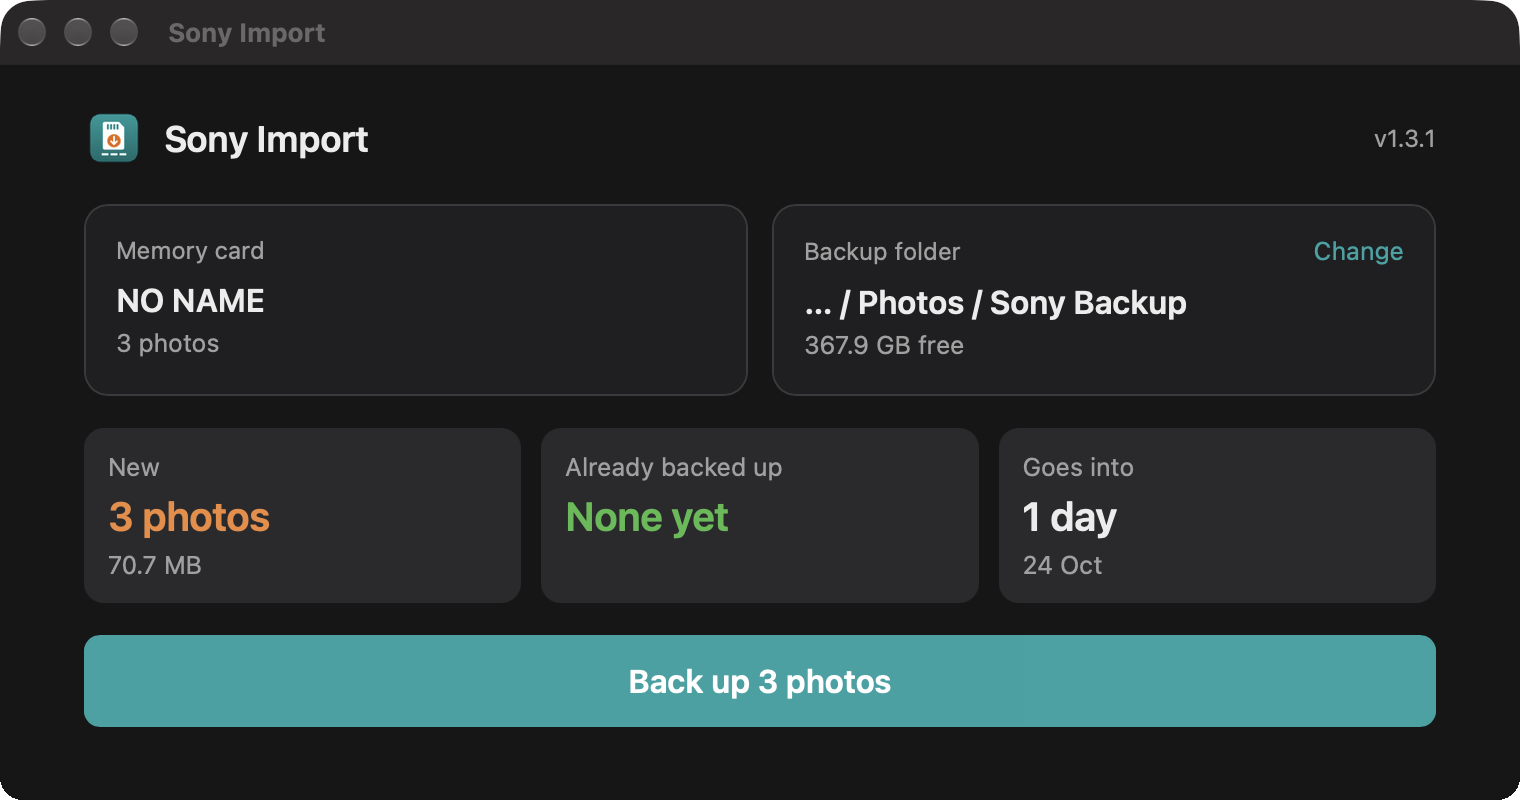
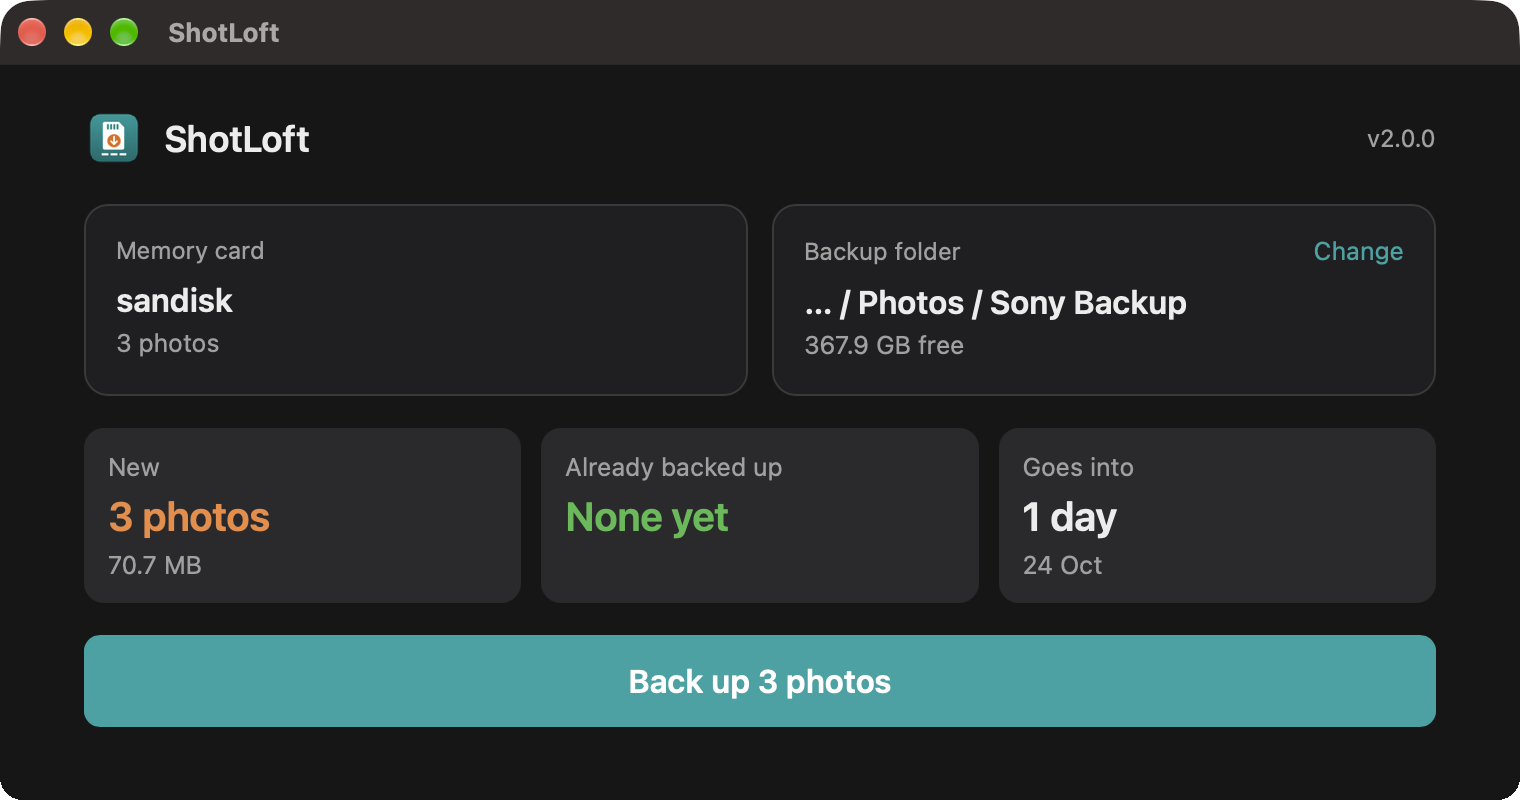
Docs: ShotLoft name everywhere, former-name notes, real ShotLoft screenshot

diff --git a/DEVELOPMENT.md b/DEVELOPMENT.md
@@ -1,23 +1,23 @@
-# Developing Sony Import
+# Developing ShotLoft
 
-[![Build](https://img.shields.io/github/actions/workflow/status/imsoumya18/sony-import/build.yml?branch=main&label=build)](https://github.com/imsoumya18/sony-import/actions/workflows/build.yml)
+[![Build](https://img.shields.io/github/actions/workflow/status/imsoumya18/shotloft/build.yml?branch=main&label=build)](https://github.com/imsoumya18/shotloft/actions/workflows/build.yml)
 [![Python 3.8+](https://img.shields.io/badge/python-3.8%2B-008787)](https://www.python.org/)
 
-Sony Import is a desktop app made of three parts. User-facing docs are in the [README](README.md).
+ShotLoft is a desktop app made of three parts. User-facing docs are in the [README](README.md).
 
 | Part | What it is |
 |---|---|
-| [`sony-import-app.py`](sony-import-app.py) | The app: opens the window and serves the page and its actions |
+| [`shotloft.py`](shotloft.py) | The app: opens the window and serves the page and its actions |
 | [`ui/index.html`](ui/index.html) | The window's contents: one page of HTML, CSS and JavaScript |
-| [`sony-import.py`](sony-import.py) | The engine: card detection, matching, copying, repairs, verify, eject. Standard library only, Python 3.8+ |
+| [`engine.py`](engine.py) | The engine: card detection, matching, copying, repairs, verify, eject. Standard library only, Python 3.8+ |
 
 ## Run from source
 
 ```bash
 pip install pywebview                 # once, for the native window (Mac and Windows)
-python3 sony-import-app.py            # open the app
-python3 sony-import-app.py --browser  # open it in the browser instead
-python3 sony-import-app.py --serve    # no window; print the URL and token (tests)
+python3 shotloft.py            # open the app
+python3 shotloft.py --browser  # open it in the browser instead
+python3 shotloft.py --serve    # no window; print the URL and token (tests)
 ```
 
 ## How the app works
@@ -35,7 +35,7 @@ python3 sony-import-app.py --serve    # no window; print the URL and token (test
   and quits about 45 seconds after the page is closed.
 - **Folder picker.** A native dialog everywhere: pywebview's in the window, otherwise AppleScript,
   PowerShell, `zenity` or `kdialog`. You can also paste a path.
-- **Engine loading.** The app loads `sony-import.py` at start-up. Because of that, the app imports
+- **Engine loading.** The app loads `engine.py` at start-up. Because of that, the app imports
   the engine's standard-library modules itself, so PyInstaller packs them into the built app.
 - **macOS builds** add `NSAppTransportSecurity → NSAllowsLocalNetworking` to `Info.plist` and are
   re-signed ad hoc. Without it, the window can't load the app's own `http://127.0.0.1` page; the
@@ -95,8 +95,8 @@ python3 sony-import-app.py --serve    # no window; print the URL and token (test
   release, with a 3-second timeout.
   - It falls back to `curl` if Python can't verify HTTPS, and says nothing when offline.
   - If the release is newer than `__version__`, the app shows a banner with the update line.
-  - Turn it off with `SONY_IMPORT_NO_UPDATE_CHECK=1`.
-- **Saved settings.** The backup folder is remembered in `~/.sony-import.json`.
+  - Turn it off with `SHOTLOFT_NO_UPDATE_CHECK=1`.
+- **Saved settings.** The backup folder is remembered in `~/.shotloft.json`.
 
 ### Engine commands (internal)
 
@@ -104,18 +104,18 @@ The engine also has commands with JSON output. They're used by the tests and by 
 a Claude skill that runs backups), and aren't part of the user-facing app:
 
 ```bash
-python3 sony-import.py detect --dest "$DEST" --json           # cards, backup drive
-python3 sony-import.py plan   --dest "$DEST" --json           # what would be copied
-python3 sony-import.py import --dest "$DEST" --report r.json  # copy, write a JSON report
-python3 sony-import.py verify --dest "$DEST" --json           # byte-for-byte check
-python3 sony-import.py eject  [--card PATH]                   # safely eject the card(s)
-python3 sony-import.py check-update --json                    # is a newer release out?
-python3 sony-import.py trash-jpgs --report r.json             # move extra JPGs to the Trash
+python3 engine.py detect --dest "$DEST" --json           # cards, backup drive
+python3 engine.py plan   --dest "$DEST" --json           # what would be copied
+python3 engine.py import --dest "$DEST" --report r.json  # copy, write a JSON report
+python3 engine.py verify --dest "$DEST" --json           # byte-for-byte check
+python3 engine.py eject  [--card PATH]                   # safely eject the card(s)
+python3 engine.py check-update --json                    # is a newer release out?
+python3 engine.py trash-jpgs --report r.json             # move extra JPGs to the Trash
 ```
 
 - **Cards:** `--card PATH` (repeatable) picks specific cards. Otherwise every connected Sony card
   is used.
-- **Backup folder:** `--dest` can come from the `SONY_IMPORT_DEST` environment variable instead.
+- **Backup folder:** `--dest` can come from the `SHOTLOFT_DEST` environment variable instead.
 - **Exit codes:**
 
   | Code | Meaning |
@@ -145,19 +145,35 @@ python3 sony-import.py trash-jpgs --report r.json             # move extra JPGs 
   - requests with no token, a wrong token, or a foreign Host header are refused
 
 ```bash
-python3 tests/smoke_test.py python3 sony-import.py      # the engine
-python3 tests/app_test.py python3 sony-import-app.py    # the app, from source
-python3 tests/app_test.py "dist/Sony Import.app/Contents/MacOS/Sony Import"   # a built Mac app
+python3 tests/smoke_test.py python3 engine.py      # the engine
+python3 tests/app_test.py python3 shotloft.py    # the app, from source
+python3 tests/app_test.py "dist/ShotLoft.app/Contents/MacOS/ShotLoft"   # a built Mac app
 ```
 
 Test hooks:
 
 | Variable | What it does |
 |---|---|
-| `SONY_IMPORT_TEST_CARDS` | Treats these folders as plugged-in cards |
-| `SONY_IMPORT_TEST_FREE_BYTES` | Fakes the free space on the backup drive |
-| `SONY_IMPORT_UPDATE_URL` | Uses this URL for the update check |
-| `SONY_IMPORT_URL_FILE` | Writes the `--serve` URL to a file, for windowed builds without a console |
+| `SHOTLOFT_TEST_CARDS` | Treats these folders as plugged-in cards |
+| `SHOTLOFT_TEST_FREE_BYTES` | Fakes the free space on the backup drive |
+| `SHOTLOFT_UPDATE_URL` | Uses this URL for the update check |
+| `SHOTLOFT_URL_FILE` | Writes the `--serve` URL to a file, for windowed builds without a console |
+
+## Former name (Sony Import)
+
+ShotLoft was called **Sony Import** up to v2.0.0. The old name appears in the code in exactly three
+places, all for moving existing users over:
+- **Settings** (`engine.py`): if `~/.shotloft.json` doesn't exist yet, `~/.sony-import.json` is
+  read once, so the saved backup folder carries over.
+- **Installers:**
+  - Until the first ShotLoft release exists, they fall back to the last `sony-import-*` release
+    files.
+  - After installing ShotLoft, they remove the old Sony Import app, but only if it's ours:
+    - Mac: checked by its bundle ID `io.github.imsoumya18.sony-import`.
+    - Windows: its own `Programs\Sony Import` folder and Start-menu entry.
+    - Linux: its menu entry.
+- GitHub redirects the old repo address (`imsoumya18/sony-import`) and old install lines to
+  `imsoumya18/shotloft`.
 
 ## The one-line installers
 
@@ -169,29 +185,29 @@ it.
 ### macOS and Linux: [`install.sh`](install.sh)
 
 It downloads the latest release with `curl`:
-- **macOS:** unpacks `Sony Import.app` with `ditto`, keeping its signature. It installs into
+- **macOS:** unpacks `ShotLoft.app` with `ditto`, keeping its signature. It installs into
   `/Applications`, or into `~/Applications` if that isn't writable, replacing an older version. It
   refuses while the app is open.
-- **Linux:** installs `~/.local/bin/sony-import` (it opens in the browser) and an app-menu entry.
+- **Linux:** installs `~/.local/bin/shotloft` (it opens in the browser) and an app-menu entry.
 
 | Variable | Default |
 |---|---|
-| `SONY_IMPORT_RELEASES` | `https://github.com/imsoumya18/sony-import/releases/latest/download` |
-| `SONY_IMPORT_RAW` | `https://raw.githubusercontent.com/imsoumya18/sony-import/main` (Linux icon) |
-| `SONY_IMPORT_APPS_DIR` | `/Applications` (macOS) |
-| `SONY_IMPORT_BIN_DIR` | `~/.local/bin` (Linux) |
-| `SONY_IMPORT_NO_REVEAL` | If unset, the app is shown in Finder afterwards |
+| `SHOTLOFT_RELEASES` | `https://github.com/imsoumya18/shotloft/releases/latest/download` |
+| `SHOTLOFT_RAW` | `https://raw.githubusercontent.com/imsoumya18/shotloft/main` (Linux icon) |
+| `SHOTLOFT_APPS_DIR` | `/Applications` (macOS) |
+| `SHOTLOFT_BIN_DIR` | `~/.local/bin` (Linux) |
+| `SHOTLOFT_NO_REVEAL` | If unset, the app is shown in Finder afterwards |
 
 ### Windows: [`install.ps1`](install.ps1)
 
 It runs as `irm …/install.ps1 | iex`, in Windows PowerShell 5.1 or later:
-- It downloads `Sony Import.exe` into `%LOCALAPPDATA%\Programs\Sony Import`, which needs no admin
-  rights, and adds a **Sony Import** Start-menu shortcut.
+- It downloads `ShotLoft.exe` into `%LOCALAPPDATA%\Programs\ShotLoft`, which needs no admin
+  rights, and adds a **ShotLoft** Start-menu shortcut.
 - `Unblock-File` makes sure the app carries no "from the internet" mark.
 - It runs inside `& { … }` and never calls `exit`, so a failure can't close the user's PowerShell
   window.
 
-Overrides: `SONY_IMPORT_RELEASES`, `SONY_IMPORT_INSTALL_DIR` and `SONY_IMPORT_START_MENU`.
+Overrides: `SHOTLOFT_RELEASES`, `SHOTLOFT_INSTALL_DIR` and `SHOTLOFT_START_MENU`.
 
 The icons are [`docs/icon.png`](docs/icon.png) (1024 px), [`docs/AppIcon.icns`](docs/AppIcon.icns)
 and [`docs/icon.ico`](docs/icon.ico), drawn in the app's teal and orange.
@@ -210,7 +226,7 @@ On every push, [GitHub Actions](.github/workflows/build.yml) runs these jobs:
 To publish a new version:
 1. Add a `## [X.Y.Z] - date` section to [CHANGELOG.md](CHANGELOG.md), written for users. Usually
    you just rename `## [Unreleased]`.
-2. Bump `__version__` in `sony-import.py`. The app shows it, and the update notice uses it.
+2. Bump `__version__` in `engine.py`. The app shows it, and the update notice uses it.
 3. Commit, then tag and push:
 
    ```bash

diff --git a/README.md b/README.md
@@ -1,16 +1,18 @@
-# Sony Import
+# ShotLoft
 
-[![Latest version](https://img.shields.io/github/v/release/imsoumya18/sony-import?label=version&color=008787)](https://github.com/imsoumya18/sony-import/releases/latest)
-[![Build](https://img.shields.io/github/actions/workflow/status/imsoumya18/sony-import/build.yml?branch=main&label=build)](https://github.com/imsoumya18/sony-import/actions/workflows/build.yml)
-[![Downloads](https://img.shields.io/github/downloads/imsoumya18/sony-import/total)](https://github.com/imsoumya18/sony-import/releases)
+[![Latest version](https://img.shields.io/github/v/release/imsoumya18/shotloft?label=version&color=008787)](https://github.com/imsoumya18/shotloft/releases/latest)
+[![Build](https://img.shields.io/github/actions/workflow/status/imsoumya18/shotloft/build.yml?branch=main&label=build)](https://github.com/imsoumya18/shotloft/actions/workflows/build.yml)
+[![Downloads](https://img.shields.io/github/downloads/imsoumya18/shotloft/total)](https://github.com/imsoumya18/shotloft/releases)
 [![Platforms](https://img.shields.io/badge/platform-Windows%20%7C%20macOS%20%7C%20Linux-008787)](#install)
 [![Setup](https://img.shields.io/badge/setup-one%20line-008787)](#install)
-[![License: MIT](https://img.shields.io/github/license/imsoumya18/sony-import?color=008787)](LICENSE)
+[![License: MIT](https://img.shields.io/github/license/imsoumya18/shotloft?color=008787)](LICENSE)
 
 A simple app that backs up the photos and videos from your Sony camera's memory card, neatly
 sorted into **Year → Month → Day** folders. Open it any time: it only copies what's new.
 
-<p align="center"><img src="docs/screenshot.png" alt="The Sony Import app showing a memory card, the backup folder, and what will be backed up" width="720"></p>
+<sub>ShotLoft was called *Sony Import* up to v2.0.0. Already using it? Run the install line below once to switch.</sub>
+
+<p align="center"><img src="docs/screenshot.png" alt="The ShotLoft app showing a memory card, the backup folder, and what will be backed up" width="720"></p>
 
 ## Install
 
@@ -20,15 +22,15 @@ sorted into **Year → Month → Day** folders. Open it any time: it only copies
 2. Paste this line and press <kbd>Enter</kbd>:
 
    ```bash
-   curl -fsSL https://raw.githubusercontent.com/imsoumya18/sony-import/main/install.sh | bash
+   curl -fsSL https://raw.githubusercontent.com/imsoumya18/shotloft/main/install.sh | bash
    ```
 
-3. **Sony Import** now appears in your Applications folder and Launchpad. Open it whenever you
+3. **ShotLoft** now appears in your Applications folder and Launchpad. Open it whenever you
    want to back up a card.
 
 It picks the right version for your computer (Mac with Apple or Intel chip, or Linux) by itself.
 To update, run the same line again; the app tells you when there's a new version. On Linux,
-Sony Import appears in your app menu and opens in your web browser.
+ShotLoft appears in your app menu and opens in your web browser.
 
 ### Windows: one line, no security warnings
 
@@ -36,10 +38,10 @@ Sony Import appears in your app menu and opens in your web browser.
 2. Paste this line and press <kbd>Enter</kbd>:
 
    ```powershell
-   irm https://raw.githubusercontent.com/imsoumya18/sony-import/main/install.ps1 | iex
+   irm https://raw.githubusercontent.com/imsoumya18/shotloft/main/install.ps1 | iex
    ```
 
-3. **Sony Import** is now in your Start menu. Search for it whenever you want to back up a card.
+3. **ShotLoft** is now in your Start menu. Search for it whenever you want to back up a card.
 
 To update, run the same line again. No admin rights needed.
 
@@ -48,12 +50,12 @@ To update, run the same line again. No admin rights needed.
 
 | Your computer | Download |
 |---|---|
-| Windows | [sony-import-windows.exe](https://github.com/imsoumya18/sony-import/releases/latest/download/sony-import-windows.exe) |
-| Mac with Apple chip (M1, M2, M3…) | [sony-import-macos-apple-silicon.zip](https://github.com/imsoumya18/sony-import/releases/latest/download/sony-import-macos-apple-silicon.zip) |
-| Mac with Intel chip | [sony-import-macos-intel.zip](https://github.com/imsoumya18/sony-import/releases/latest/download/sony-import-macos-intel.zip) |
-| Linux (64-bit) | [sony-import-linux.zip](https://github.com/imsoumya18/sony-import/releases/latest/download/sony-import-linux.zip) |
+| Windows | [shotloft-windows.exe](https://github.com/imsoumya18/shotloft/releases/latest/download/shotloft-windows.exe) |
+| Mac with Apple chip (M1, M2, M3…) | [shotloft-macos-apple-silicon.zip](https://github.com/imsoumya18/shotloft/releases/latest/download/shotloft-macos-apple-silicon.zip) |
+| Mac with Intel chip | [shotloft-macos-intel.zip](https://github.com/imsoumya18/shotloft/releases/latest/download/shotloft-macos-intel.zip) |
+| Linux (64-bit) | [shotloft-linux.zip](https://github.com/imsoumya18/shotloft/releases/latest/download/shotloft-linux.zip) |
 
-- **Mac:** unzip it, drag **Sony Import** into Applications, and open it. Because it was
+- **Mac:** unzip it, drag **ShotLoft** into Applications, and open it. Because it was
   downloaded in a browser, macOS blocks it the first time:
   1. Click **Done**.
   2. Go to **System Settings → Privacy & Security**.
@@ -62,13 +64,13 @@ To update, run the same line again. No admin rights needed.
   The Terminal line above avoids this, which is why it's the recommended way.
 - **Windows:** double-click it. On "Windows protected your PC", click **More info** → **Run anyway**.
   The PowerShell line above avoids this.
-- **Linux:** unzip it and run `sony-import`. It opens in your web browser.
+- **Linux:** unzip it and run `shotloft`. It opens in your web browser.
 </details>
 
 ## How to use it
 
 1. Put the memory card in your computer, and plug in the drive you back up to.
-2. Open **Sony Import**. It finds the card by itself.
+2. Open **ShotLoft**. It finds the card by itself.
 3. The first time, click **Choose backup folder** and pick any folder on any drive. It remembers
    the folder for next time.
 4. It shows what's new and what's already backed up. Click **Back up** and watch the progress bar.
@@ -126,13 +128,13 @@ Camera Backup/                ← the folder you chose
 <details>
 <summary>Uninstall</summary>
 
-- **Mac:** drag **Sony Import** from Applications to the Trash.
-- **Windows:** delete the folder `%LOCALAPPDATA%\Programs\Sony Import`, and the **Sony Import**
+- **Mac:** drag **ShotLoft** from Applications to the Trash.
+- **Windows:** delete the folder `%LOCALAPPDATA%\Programs\ShotLoft`, and the **ShotLoft**
   shortcut in the Start menu (right-click it → Open file location).
-- **Linux:** delete `~/.local/bin/sony-import` and `~/.local/share/applications/sony-import.desktop`.
+- **Linux:** delete `~/.local/bin/shotloft` and `~/.local/share/applications/shotloft.desktop`.
 
 Your backup folder and photos are never touched. The app also keeps one small settings file, the
-last backup folder you used, in `.sony-import.json` in your home folder. You can delete that too.
+last backup folder you used, in `.shotloft.json` in your home folder. You can delete that too.
 </details>
 
 ---

diff --git a/CHANGELOG.md b/CHANGELOG.md
@@ -1,11 +1,20 @@
-# What's new in Sony Import
+# What's new in ShotLoft
 
 To update, run the install line from the [README](README.md#install) again. The app tells you
 when a new version is out.
 
+ShotLoft was called **Sony Import** up to v2.0.0.
+
+## [Unreleased]
+
+- **Sony Import is now ShotLoft.** A new name for an app that does more than import: it backs up,
+  checks, organises, and will keep growing. To switch, run the install line from the README once.
+  It installs ShotLoft and removes the old Sony Import app, and your saved backup folder carries
+  over.
+
 ## [2.0.0] - 2026-10-24
 
-- **Sony Import is now a desktop app.** One window instead of a terminal: your card and backup
+- **ShotLoft is now a desktop app.** One window instead of a terminal: your card and backup
   folder, what's new and what's already backed up, and one **Back up** button with a progress bar.
   Then there are buttons to **check it's safe to format**, **eject the card**, and move extra JPGs
   to the Trash. It follows your computer's light or dark mode.
@@ -31,7 +40,7 @@ when a new version is out.
   failing halfway.
 - **Update notice.** Tells you when a newer version is available, with the line to install it.
 - **One-line install on Windows.** Paste one line into PowerShell. There's no SmartScreen
-  warning, and Sony Import appears in the Start menu with its own icon.
+  warning, and ShotLoft appears in the Start menu with its own icon.
 - **The Mac window now closes** when you press Enter at the end.
 
 ## [1.2.0] - 2026-10-17
@@ -41,7 +50,7 @@ when a new version is out.
 - **Fills gaps.** If a video's `.XML` or `.MP4`, or the RAW of a RAW + JPG photo, is missing from
   the backup, just that file is put back, next to its partner, with the same number.
 - **New colours** that are easy to read on both dark and light terminals.
-- **One-line install on Mac and Linux**, with no Mac security warning. Sony Import gets its own
+- **One-line install on Mac and Linux**, with no Mac security warning. ShotLoft gets its own
   app icon.
 
 ## [1.1.0] - 2026-10-17
